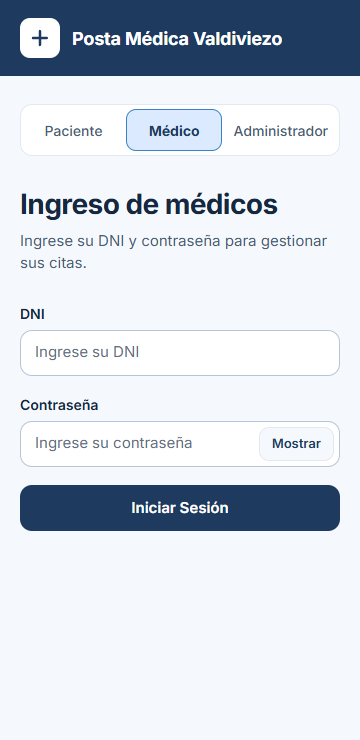
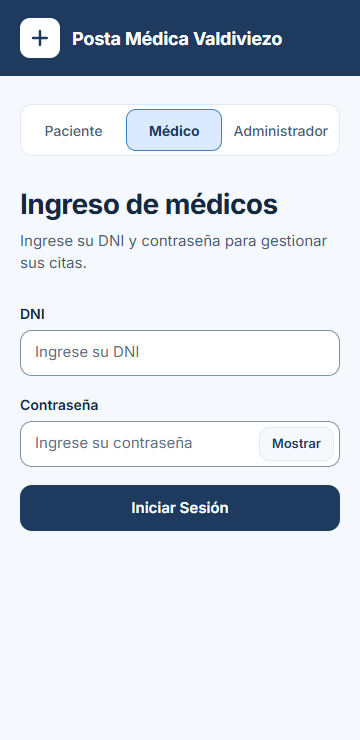
RFC-019: borde de campos con contraste 3:1 y capturas actualizadas

diff --git a/frontend/src/styles.css b/frontend/src/styles.css
@@ -16,7 +16,9 @@
   --bg: #f5f8fc;
   --surface: #ffffff;
   --border: #e1e9f3;
-  --border-strong: #b7c5d8;     /* borde de campos: 3:1 sobre blanco (WCAG 1.4.11) */
+  /* Borde de campos y controles: 3.23:1 sobre blanco y 3.03:1 sobre el fondo (WCAG 1.4.11).
+     --border (#e1e9f3) queda para separadores que no delimitan un control. */
+  --border-strong: #7d91ab;
 
   /* Texto */
   --text: #16283f;
